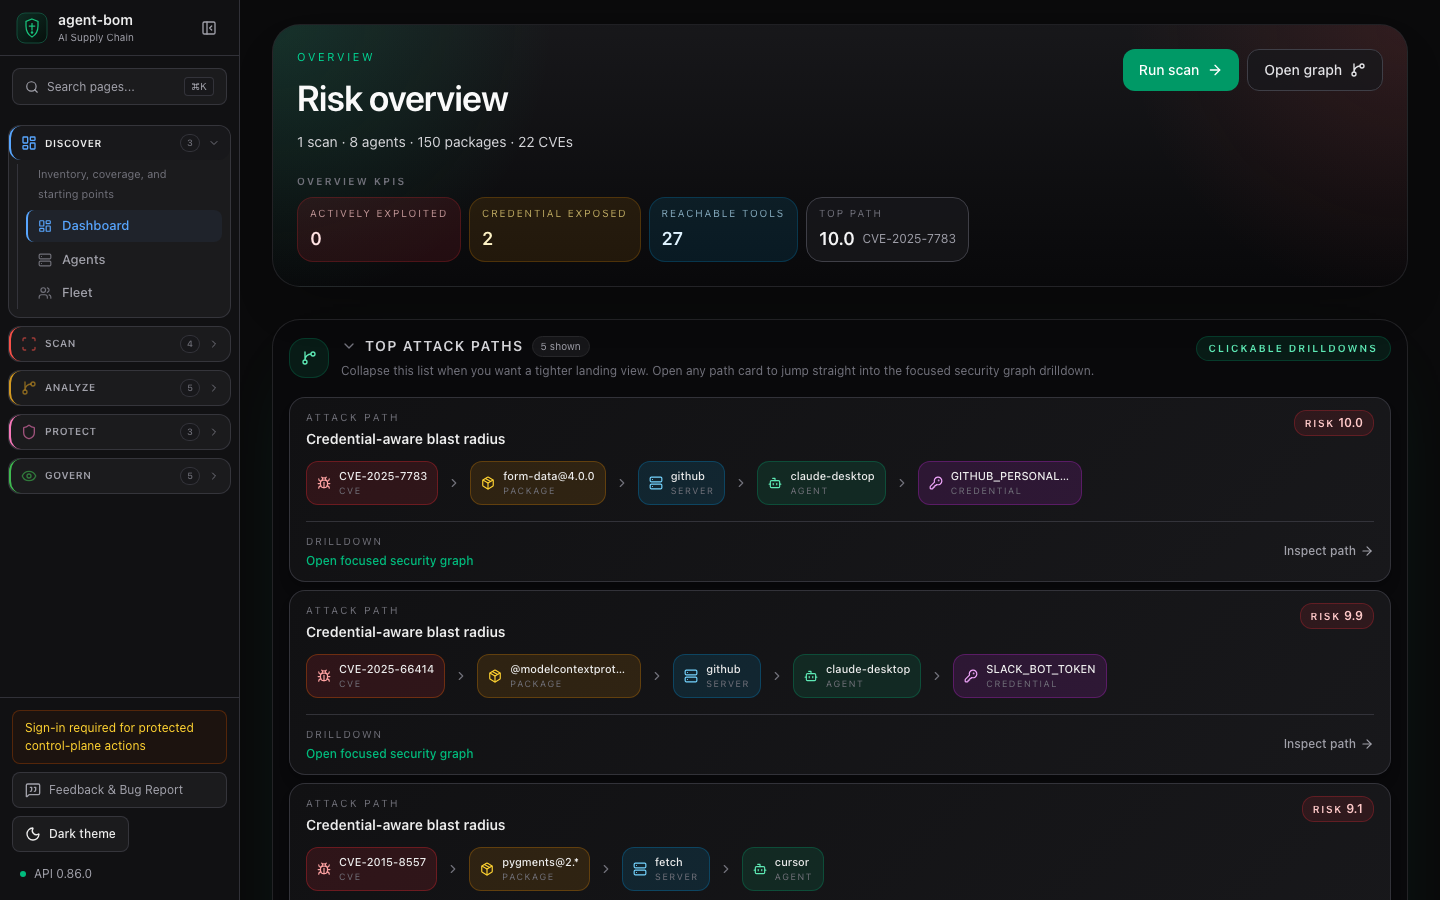
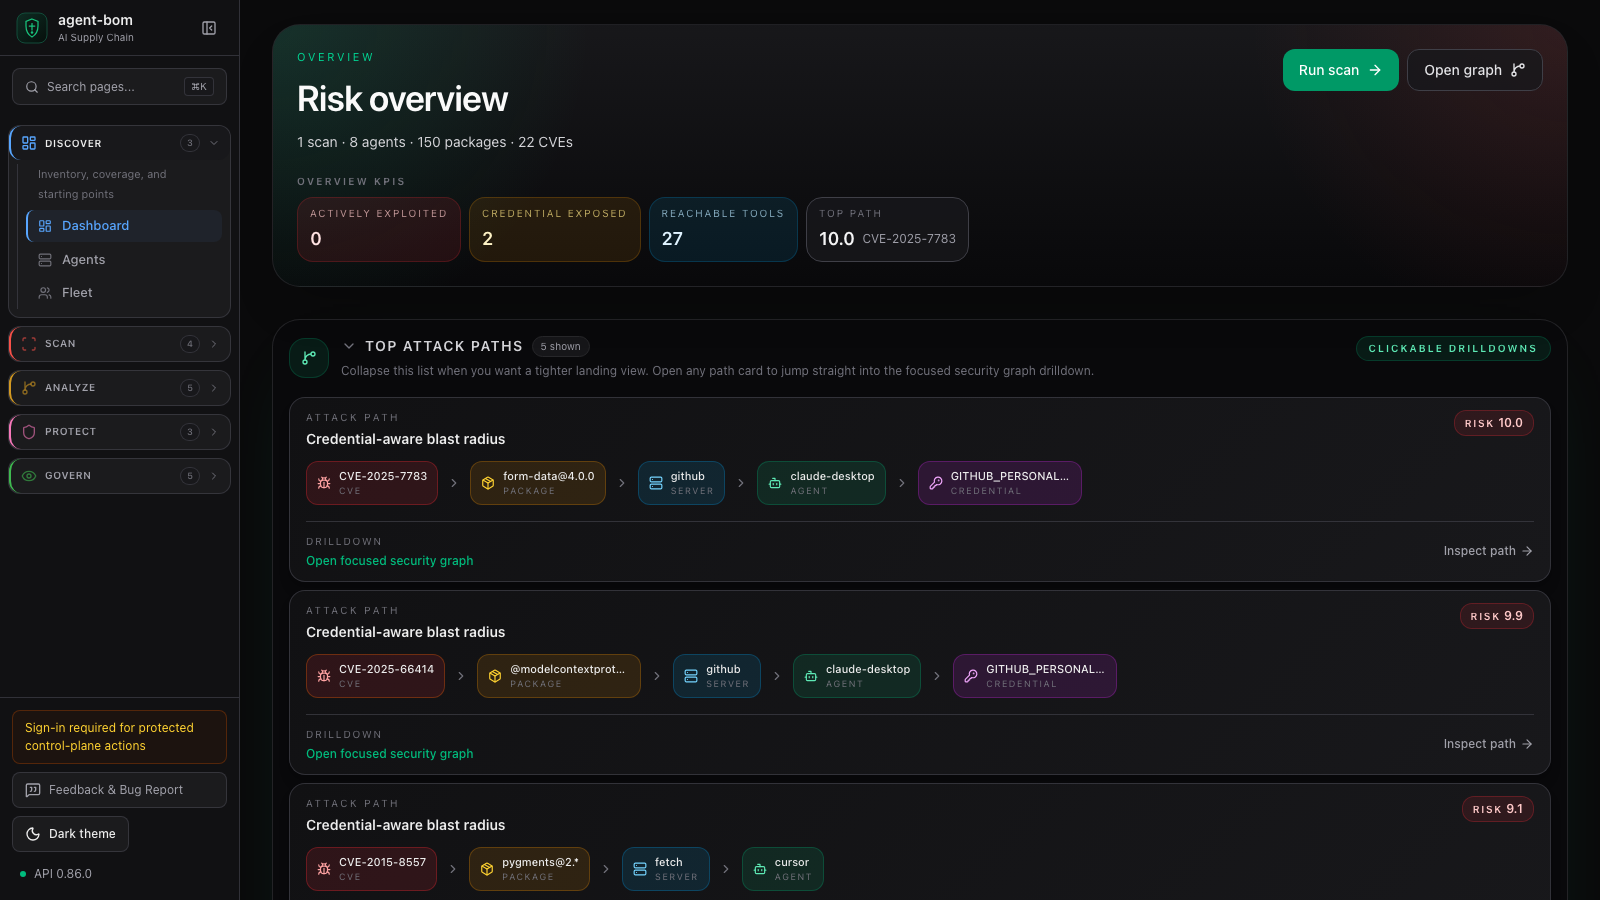
docs(screenshots): /  + /findings refreshed; /graph + /mesh interactive captures deferred
Final state of #2149 capture pass:

REFRESHED against v0.86.0 dashboard with real data
- dashboard-live.png — / Risk overview, 1 scan / 8 agents / 148 packages
  / 22 CVEs, radial chart + Top Attack Paths section, footer API 0.86.0.
- remediation-live.png — /findings table with 22 real CVE rows,
  severity / EPSS / packages / agents / remediation columns,
  footer API 0.86.0.

DEFERRED to v0.86.1 (kept main's originals — they were good)
- dashboard-paths-live.png — the /graph "moat" view. Data is present
  (244 nodes / 302 edges in /v1/graph) but the page renders the
  "How to read this graph" prose by default; the actual blast-radius
  React Flow canvas only mounts after the operator clicks a layout
  button (Layered / Compounds / Sources). Playwright timed out
  hitting the click-and-settle flow against the dev server.
- mesh-live.png — the /mesh page reads /v1/agents/mesh (14 nodes /
  8 edges) but renders a skeleton in memory-only mode; needs a
  Postgres-backed deployment with persisted graph storage.

ui/e2e/screenshots.spec.ts updates kept for the next run
- Per-route readySelector waits (.react-flow__node / table tbody tr /
  main) replace the brittle networkidle-only wait.
- Graph/mesh: 1600x1400 viewport, 90s test timeout, scrollIntoView,
  click on layout button. Ready to capture cleanly when run against
  a Postgres-backed env (per docs/SCREENSHOTS.md recipe).
- /  and /findings: 1600x900 hero crop.
[…]

diff --git a/ui/e2e/screenshots.spec.ts b/ui/e2e/screenshots.spec.ts
@@ -19,11 +19,12 @@ const SHOTS: {
 }[] = [
   // Risk overview — wait for the main panel to mount.
   { name: "dashboard-live.png", route: "/", readySelector: "main" },
-  // Attack-paths surface — wait for React Flow viewport with edges.
+  // Supply-chain graph (the product moat) — full /v1/graph blast-radius
+  // visualization. Wait for at least one React Flow node to render.
   {
     name: "dashboard-paths-live.png",
-    route: "/security-graph",
-    readySelector: ".react-flow__viewport, [data-testid='security-graph-canvas']",
+    route: "/graph",
+    readySelector: ".react-flow__node, [data-testid='graph-node']",
   },
   // Agent mesh — wait for at least one mesh node to render.
   {
@@ -40,27 +41,55 @@ const SHOTS: {
 ];
 
 test.describe("docs screenshot capture", () => {
-  test.beforeEach(async ({ page }) => {
-    await page.setViewportSize({ width: 1440, height: 900 });
-  });
-
   for (const { name, route, readySelector } of SHOTS) {
     test(`capture ${name}`, async ({ page }) => {
+      // Graph + mesh need a tall viewport to fit the canvas below the
+      // header and stats row; / and /findings stay at hero crop size.
+      const isGraphRoute = route === "/graph" || route === "/mesh";
+      // Graph routes routinely exceed the 30s default — 244-node dagre
+      // layout + interaction + settle adds up. Bump per-test cap.
+      if (isGraphRoute) {
+        test.setTimeout(90_000);
+      }
+      await page.setViewportSize({
+        width: 1600,
+        height: isGraphRoute ? 1400 : 900,
+      });
+
       const resp = await page.goto(route, { waitUntil: "networkidle" });
       expect(resp?.ok(), `${route} did not return 2xx`).toBeTruthy();
 
       // Wait for the route-specific surface so we capture the real
-      // visualisation, not the loading skeleton. Soft-fail so empty-data
-      // states still capture (with the timeout giving slow charts time
-      // to render before falling back).
+      // visualisation, not the loading skeleton.
       await page
-        .waitForSelector(readySelector, { state: "visible", timeout: 8000 })
+        .waitForSelector(readySelector, { state: "visible", timeout: 20000 })
         .catch(() => {
           /* selector not found in time — capture whatever is there */
         });
 
+      // For graph routes the canvas only renders after the user picks a
+      // layout — the default `/graph` view shows "How to read this graph"
+      // help prose and "filter resolves to findings only" until the
+      // operator clicks a Layouts button. Click "Layered" so the
+      // capture shows the actual blast-radius topology, not the help.
+      if (isGraphRoute) {
+        for (const label of ["Layered", "Compounds", "Sources"]) {
+          const btn = page.getByRole("button", { name: label }).first();
+          if (await btn.isVisible({ timeout: 1000 }).catch(() => false)) {
+            await btn.click().catch(() => {});
+            break;
+          }
+        }
+        await page
+          .locator(".react-flow")
+          .first()
+          .scrollIntoViewIfNeeded()
+          .catch(() => {});
+      }
+
       // Final settle for chart animations / React Flow auto-layout.
-      await page.waitForTimeout(1500);
+      const settleMs = isGraphRoute ? 4000 : 1500;
+      await page.waitForTimeout(settleMs);
 
       await page.screenshot({
         path: path.join(OUT_DIR, name),
